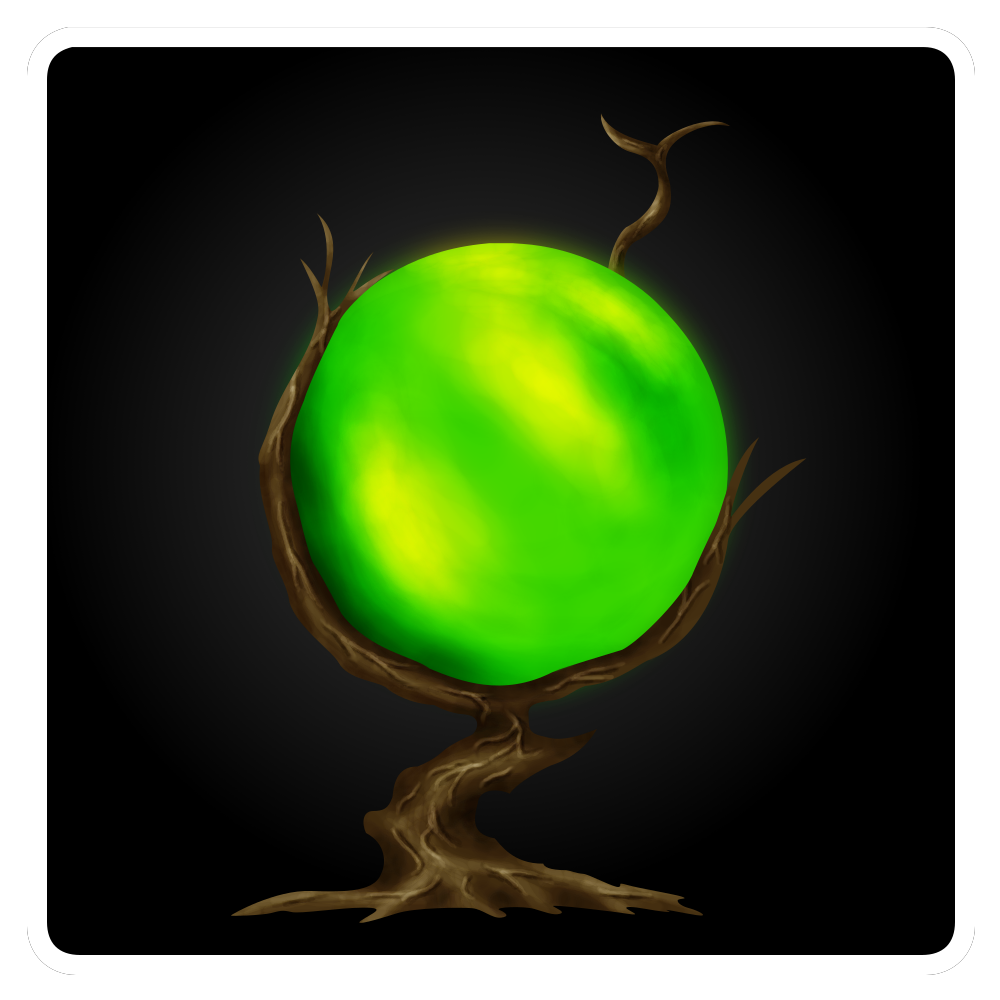
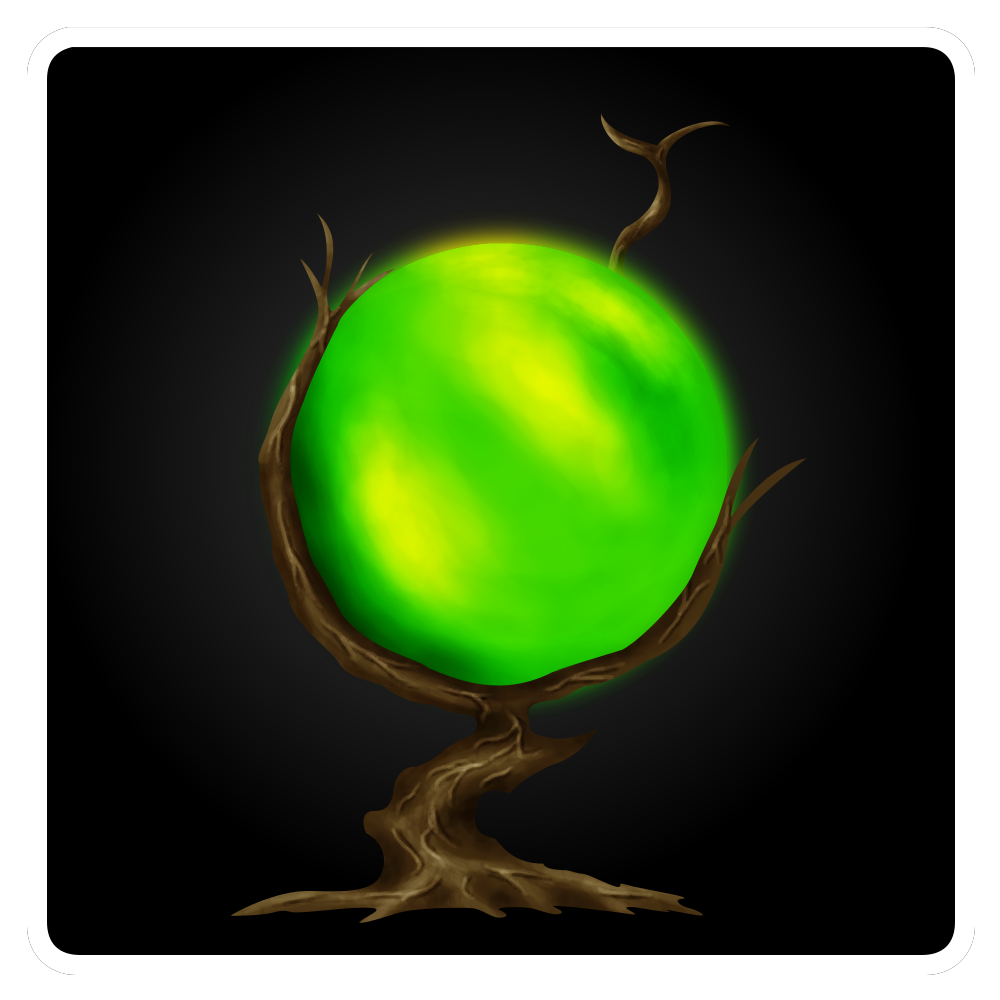
1. Poprawienie buga odpowiedzialnego za niepoprawną kompilacje APK. 2. Dodanie grafik kuli szybkości. 3. Update stylu.

Changed region(s): [[0.372, 0.217, 0.744, 0.527], [0.31, 0.279, 0.372, 0.31], [0.279, 0.341, 0.31, 0.403]]

diff --git a/android/src/com/mygdx/eoh/AndroidLauncher.java b/android/src/com/mygdx/eoh/AndroidLauncher.java
@@ -17,6 +17,6 @@ public class AndroidLauncher extends AndroidApplication {
         mWakeLock.acquire();
 
         AndroidApplicationConfiguration config = new AndroidApplicationConfiguration();
-        initialize(new Main(), config);
+        initialize(new Eoh(), config);
     }
 }
